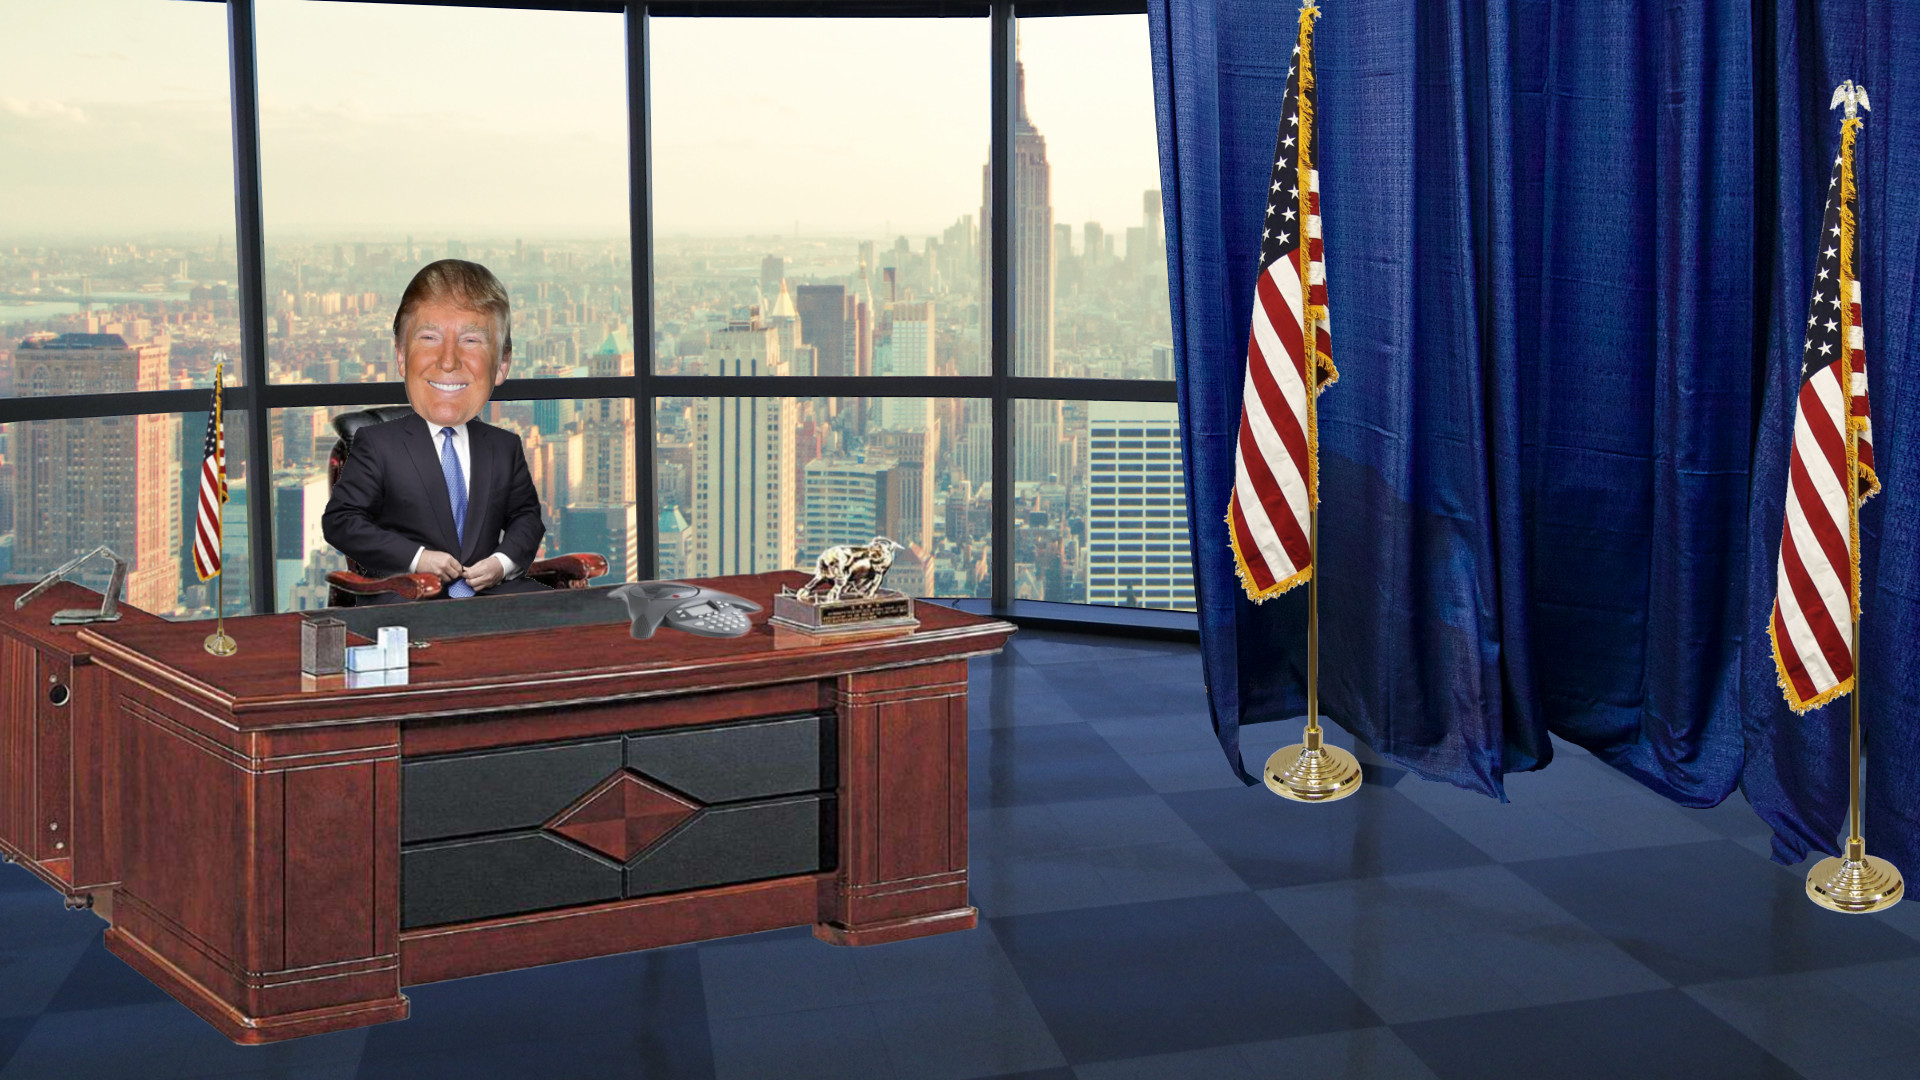
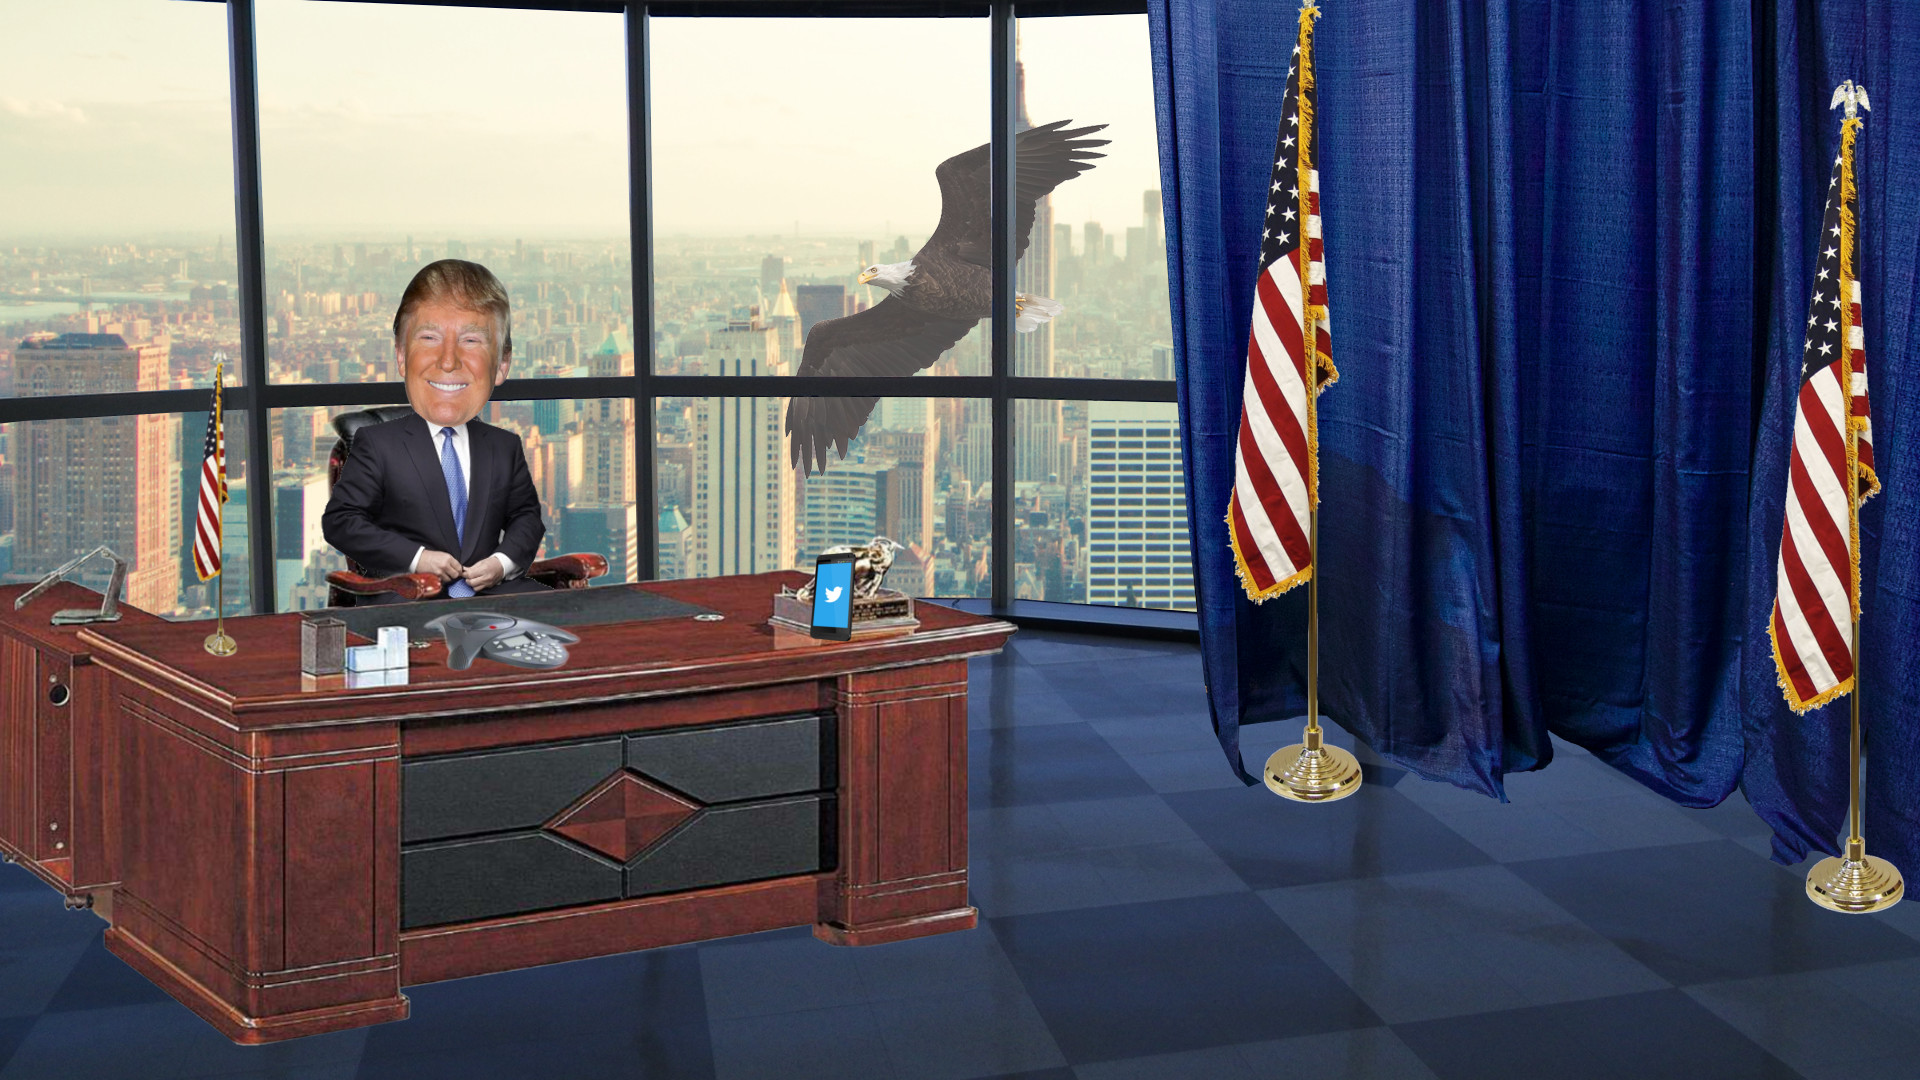
updated readme, updated office background

Changed region(s): [[0.4062, 0.0917, 0.5938, 0.4583], [0.2188, 0.5194, 0.4688, 0.6417]]

diff --git a/README.md b/README.md
@@ -1,1 +1,86 @@
 # MakeAmericaGreatAgain
+MakeAmericaGreatAgain is part of my home exam in "Designing User Interfaces" at Chalmers in Gothenburg.
+It is designed to be a critical game about us-americans attitude to elections.
+
+The point is: **Think before you vote!**
+
+My home exam is not about implementing the game, however I decided to implement one of the four minigames included in the game.
+There's also a small chance, that i'm gonna implement more.
+
+![HeadCooker](img/office.jpg)
+
+
+<!-- [toc] -->
+## Table of Contents
+
+   * [Compilation and dependencies](#compilation-and-dependencies)
+     * [Dependencies](#dependencies)
+       * [QT5](#qt5)
+     * [Compilation](#compilation)
+   * [Goal](#goal)
+   * [Content](#content)
+     * [Press-conforences (not planned)](#press-conforences-not-planned)
+     * [TV duells (not planned)](#tv-duells-not-planned)
+     * [Phone interview (currently impelmenting this)](#phone-interview-currently-impelmenting-this)
+     * [Tweeting stuff (not planned)](#tweeting-stuff-not-planned)
+
+<!-- [toc] -->
+## Compilation and dependencies ##
+
+### Dependencies ###
+
+#### QT5 ####
+MakeAmericaGreatAgain depents on QT5 so make sure QT5 is installed:
+
+**Linux:** (run as root or via sudo)
+``` bash
+apt-get install qt5-default qt5-qmake
+```
+
+**Windows:**
+
+Check http://www.qt.io/download/
+
+### Compilation ###
+
+Run following in your MakeAmericaGreatAgain directory:
+``` bash
+mkdir build
+cd build
+qmake ..
+make
+```
+
+You can now run MakeAmericaGreatAgain via ```./MakeAmericaGreatAgain``` in your build directory
+
+## Goal
+Convince the nation that you'll be a good president...
+
+## Content
+The game is based on four minigames:
+* Press-conferences
+* TV Duells
+* Phone interviews (gonna implement this one)
+* Tweeting stuff
+
+Furthermore You sometimes have to react to events, e.g. the NSA can't unlock an iphone...
+
+### Press-conforences (not planned)
+You have to do a press conference with some reporters which are asking questions to you.
+Lie as often as possible to win here.
+
+### TV duells (not planned)
+You have to fight agains the other candidates in a tv duell.
+Therefore you usually don't have to know facts, you sould just attack all other candidates and underline that you are very rich, very popular and you're the only one who is self funding his campain, oh almost forgot, you also should lie...
+
+**Sorry** for not implementing this, could also be a lot of fun to play this.
+
+### Phone interview (currently impelmenting this)
+Have you ever seen "Who Wants to Be a Millionaire"?
+You get questions from the reporter on the other line. For this purpose you're getting 4 possible answeres and you have to choose the "right" one, ha ha ha... just kidding, you have to lie, deny and change the subject.
+
+### Tweeting stuff (not planned)
+Exactly what it says, teet stuff like:
+* "It is better to live one day as a lion then 100 years as a sheep" ... thats Mussolini
+* "I would like to extend my best wishes to all, even the haters and losers, on this special date, September 11th"
+* "You know, look, I’m on a lot of covers. I think maybe more than almost any supermodel. I think more than any supermodel."
